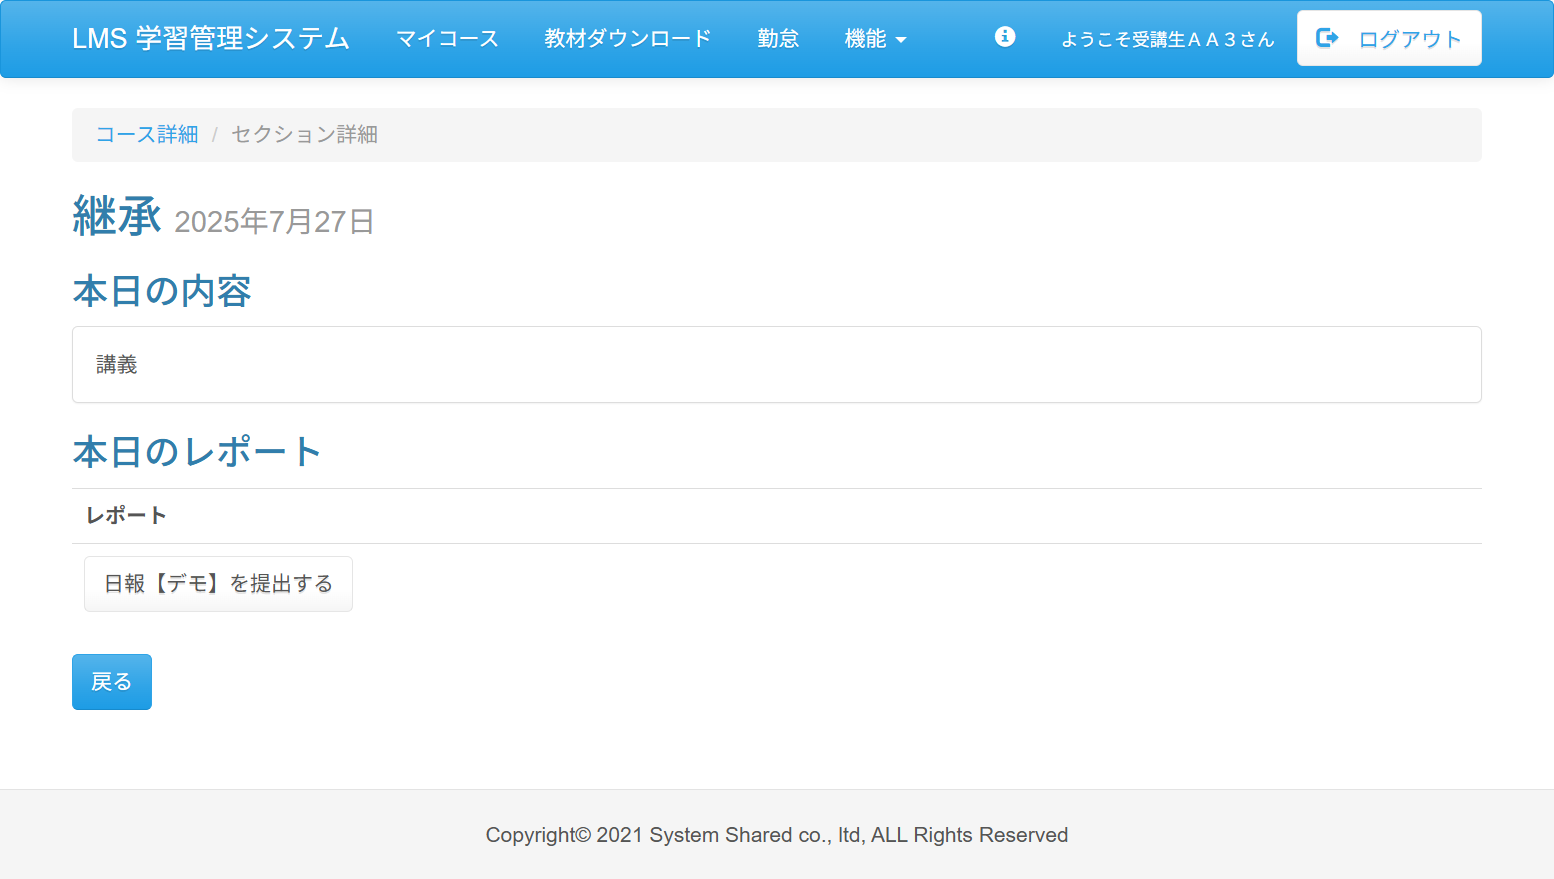
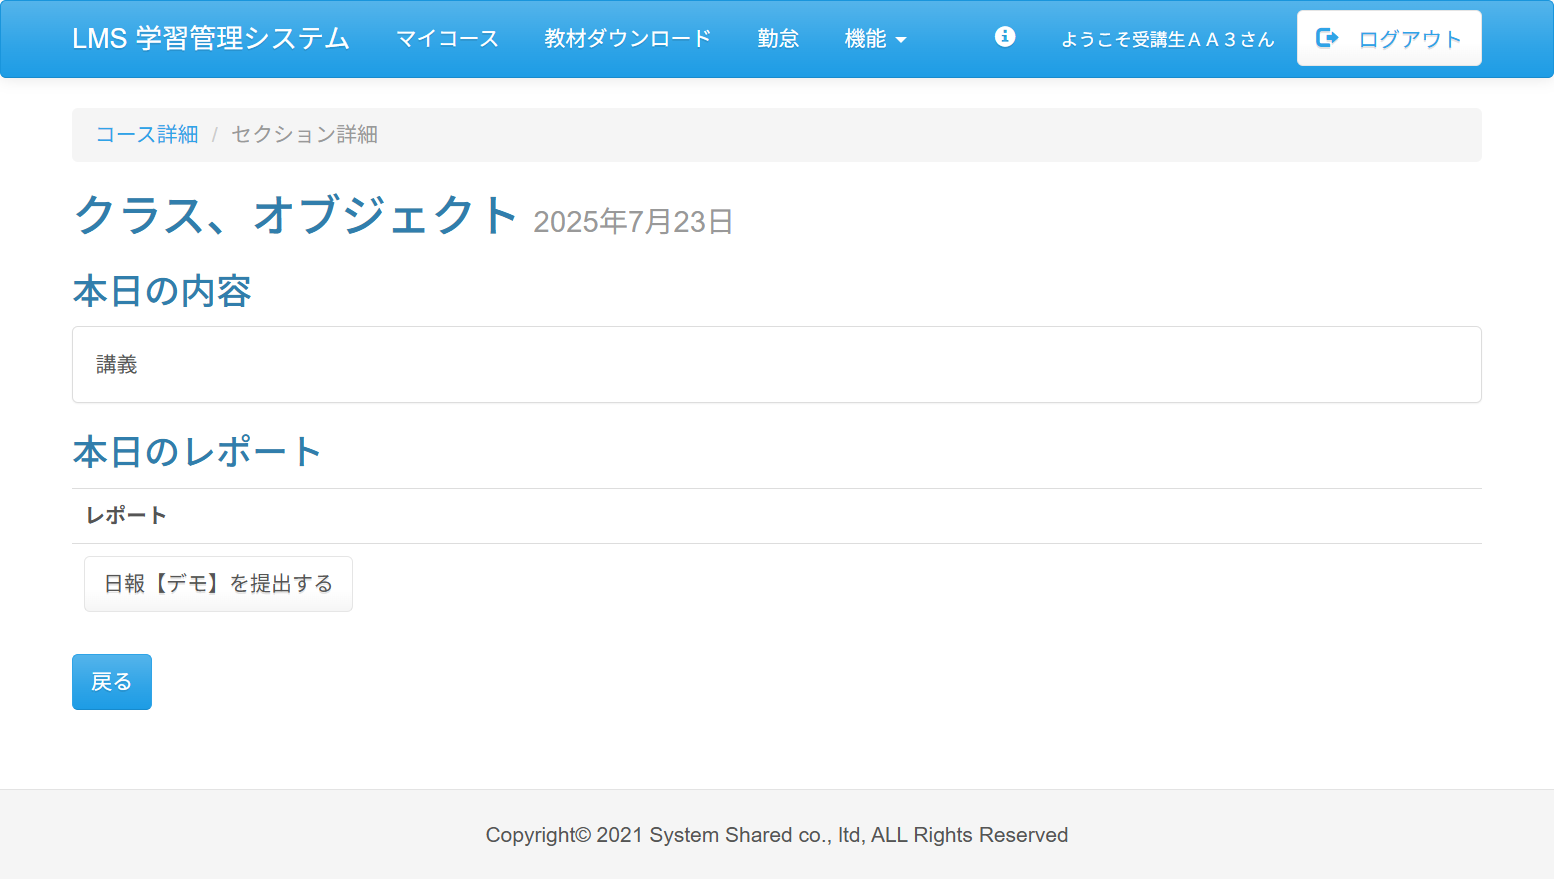
add: Case08.java 該当レポートの「詳細」ボタンを押下しレポート詳細画面で修正内容が反映される
WebElementを利用して
報告内容を修正し、レポート詳細画面で修正内容が
反映されているかどうか確認するテストを作成した。
期待値は以下の通り
テキスト：ロケータの種類
テキスト：3
テキスト：1
テキスト：難しかった。
テキスト：一週間お疲れ様です。
---------------------------------------------
fix:
Case07.java エラー内容の修正

classNameで値を取得していたところを、
xpathに置き換え、xpathで値を取得するようにした。
修正内容は以下の通り
WebDriverUtils.java 200行目
Case07.java 95行目

Changed region(s): [[0.0309, 0.215, 0.4633, 0.2765]]

diff --git a/test_code_creation_name/src/test/java/jp/co/sss/lms/ct/f03_report/Case08.java b/test_code_creation_name/src/test/java/jp/co/sss/lms/ct/f03_report/Case08.java
@@ -10,6 +10,8 @@ import org.junit.jupiter.api.Order;
 import org.junit.jupiter.api.Test;
 import org.junit.jupiter.api.TestMethodOrder;
 
+import jp.co.sss.lms.ct.util.WebDriverUtils;
+
 /**
  * 結合テスト レポート機能
  * ケース08
@@ -35,49 +37,90 @@ public class Case08 {
 	@Order(1)
 	@DisplayName("テスト01 トップページURLでアクセス")
 	void test01() {
-		// TODO ここに追加
+		goTo("http://localhost:8080/lms");
+		WebDriverUtils.resultTitle("ログイン | LMS");
+		getEvidence(new Object() {
+		});
 	}
 
 	@Test
 	@Order(2)
 	@DisplayName("テスト02 初回ログイン済みの受講生ユーザーでログイン")
-	void test02() {
-		// TODO ここに追加
+	void test02() throws InterruptedException {
+		WebDriverUtils.nameInput("loginId", "StudentAA03");
+		WebDriverUtils.nameInput("password", "StudentAA033");
+		WebDriverUtils.enterKey("btn");
+
+		Thread.sleep(1000);
+
+		WebDriverUtils.resultTitle("コース詳細 | LMS");
+		getEvidence(new Object() {
+		});
 	}
 
 	@Test
 	@Order(3)
 	@DisplayName("テスト03 提出済の研修日の「詳細」ボタンを押下しセクション詳細画面に遷移")
-	void test03() {
-		// TODO ここに追加
+	void test03() throws InterruptedException {
+		WebDriverUtils.enterXpath("//*[@id=\"main\"]/div/div[2]/div[2]/table/tbody/tr[2]/td[5]/form/input[3]");
+		Thread.sleep(1000);
+		WebDriverUtils.resultTitle("セクション詳細 | LMS");
+		getEvidence(new Object() {
+		});
 	}
 
 	@Test
 	@Order(4)
 	@DisplayName("テスト04 「確認する」ボタンを押下しレポート登録画面に遷移")
-	void test04() {
-		// TODO ここに追加
+	void test04() throws InterruptedException {
+		WebDriverUtils.enterKeyValue("//input[@value='提出済み週報【デモ】を確認する']");
+		Thread.sleep(1000);
+		WebDriverUtils.resultTitle("レポート登録 | LMS");
+		getEvidence(new Object() {
+		});
 	}
 
 	@Test
 	@Order(5)
 	@DisplayName("テスト05 報告内容を修正して「提出する」ボタンを押下しセクション詳細画面に遷移")
-	void test05() {
-		// TODO ここに追加
+	void test05() throws InterruptedException {
+		WebDriverUtils.nameInput("intFieldNameArray[0]", "ロケータの種類");
+		WebDriverUtils.inputIdPull("intFieldValue_0", "3");
+		WebDriverUtils.nameInput("contentArray[0]", "1");
+		WebDriverUtils.nameInput("contentArray[1]", "難しかった。");
+		WebDriverUtils.nameInput("contentArray[2]", "一週間お疲れ様です。");
+		WebDriverUtils.enterKey("btn-primary");
+
+		Thread.sleep(1000);
+		WebDriverUtils.resultTitle("セクション詳細 | LMS");
+		getEvidence(new Object() {
+		});
 	}
 
 	@Test
 	@Order(6)
 	@DisplayName("テスト06 上部メニューの「ようこそ○○さん」リンクからユーザー詳細画面に遷移")
-	void test06() {
-		// TODO ここに追加
+	void test06() throws InterruptedException {
+		WebDriverUtils.enterKeyValue("//*[@id=\"nav-content\"]/ul[2]/li[2]/a");
+		Thread.sleep(1000);
+		WebDriverUtils.resultTitle("ユーザー詳細");
+		getEvidence(new Object() {
+		});
 	}
 
 	@Test
 	@Order(7)
 	@DisplayName("テスト07 該当レポートの「詳細」ボタンを押下しレポート詳細画面で修正内容が反映される")
-	void test07() {
-		// TODO ここに追加
+	void test07() throws InterruptedException {
+		WebDriverUtils.enterKeyValue("//*[@id=\"main\"]/table[2]/tbody/tr[13]/td[5]/form[1]/input[1]");
+		Thread.sleep(1000);
+		WebDriverUtils.resultXpathText("//*[@id=\"main\"]/div[1]/table/tbody/tr[2]/td[1]/p", "ロケータの種類");
+		WebDriverUtils.resultXpathText("//*[@id=\"main\"]/div[1]/table/tbody/tr[2]/td[2]/p", "3");
+		WebDriverUtils.resultXpathText("//*[@id=\"main\"]/div[2]/table/tbody/tr[1]/td", "1");
+		WebDriverUtils.resultXpathText("//*[@id=\"main\"]/div[2]/table/tbody/tr[2]/td", "難しかった。");
+		WebDriverUtils.resultXpathText("//*[@id=\"main\"]/div[2]/table/tbody/tr[3]/td", "一週間お疲れ様です。");
+		getEvidence(new Object() {
+		});
 	}
 
 }

diff --git a/test_code_creation_name/src/test/java/jp/co/sss/lms/ct/util/WebDriverUtils.java b/test_code_creation_name/src/test/java/jp/co/sss/lms/ct/util/WebDriverUtils.java
@@ -16,6 +16,7 @@ import org.openqa.selenium.WebDriver;
 import org.openqa.selenium.WebElement;
 import org.openqa.selenium.chrome.ChromeDriver;
 import org.openqa.selenium.support.ui.ExpectedConditions;
+import org.openqa.selenium.support.ui.Select;
 import org.openqa.selenium.support.ui.WebDriverWait;
 
 import com.google.common.io.Files;
@@ -163,11 +164,11 @@ public class WebDriverUtils {
 	}
 
 	/**
-	 * HTMLのvalue属性を取得し、エンターキーを押す
-	 * @param className
+	 * HTMLのxpathを取得し、エンターキーを押す
+	 * @param xpath
 	 */
-	public static void enterKeyValue(String valueName) {
-		final WebElement enterKey = WebDriverUtils.webDriver.findElement(By.xpath(valueName));
+	public static void enterKeyValue(String xpath) {
+		final WebElement enterKey = WebDriverUtils.webDriver.findElement(By.xpath(xpath));
 		enterKey.sendKeys(Keys.ENTER);
 	}
 
@@ -191,11 +192,12 @@ public class WebDriverUtils {
 	}
 
 	/**
-	 * HTMLのタイトルを取得し、結果と合致してるか調べる
+	 * HTMLのvalue属性を取得し、結果と合致してるか調べる
+	 * @param xpath
 	 * @param result
 	 */
-	public static void resultValue(String className, String result) {
-		String value = WebDriverUtils.webDriver.findElement(By.className(className)).getAttribute("value");
+	public static void resultValue(String xpath, String result) {
+		String value = WebDriverUtils.webDriver.findElement(By.xpath(xpath)).getAttribute("value");
 		assertEquals(result, value);
 	}
 
@@ -223,6 +225,16 @@ public class WebDriverUtils {
 	}
 
 	/**
+	 * HTMLのid属性を取得し、プルダウンの値を選択する
+	 * @param id
+	 * @param inputValue
+	 */
+	public static void inputIdPull(String id, String inputValue) {
+		Select dropdown = new Select(WebDriverUtils.webDriver.findElement(By.id(id)));
+		dropdown.selectByVisibleText(inputValue);
+	}
+
+	/**
 	 * xpathの値を取得し、エンターを押す
 	 * @param xpath
 	 */
@@ -230,6 +242,15 @@ public class WebDriverUtils {
 		WebDriverUtils.webDriver
 				.findElement(By.xpath(xpath))
 				.sendKeys(Keys.ENTER);
+	}
+
+	/**
+	 * xpathの値を取得し、テキストの値と結果が合致しているかを返す
+	 * @param xpath
+	 */
+	public static void resultXpathText(String xpath, String result) {
+		final WebElement enterKey = WebDriverUtils.webDriver.findElement(By.xpath(xpath));
+		assertEquals(result, enterKey.getText());
 	}
 
 }

diff --git a/test_code_creation_name/src/test/java/jp/co/sss/lms/ct/f03_report/Case07.java b/test_code_creation_name/src/test/java/jp/co/sss/lms/ct/f03_report/Case07.java
@@ -9,8 +9,6 @@ import org.junit.jupiter.api.MethodOrderer.OrderAnnotation;
 import org.junit.jupiter.api.Order;
 import org.junit.jupiter.api.Test;
 import org.junit.jupiter.api.TestMethodOrder;
-import org.openqa.selenium.By;
-import org.openqa.selenium.Keys;
 
 import jp.co.sss.lms.ct.util.WebDriverUtils;
 
@@ -67,10 +65,7 @@ public class Case07 {
 	@Order(3)
 	@DisplayName("テスト03 未提出の研修日の「詳細」ボタンを押下しセクション詳細画面に遷移")
 	void test03() throws InterruptedException {
-
-		WebDriverUtils.webDriver
-				.findElement(By.xpath("//*[@id=\"main\"]/div/div[5]/div[2]/table/tbody/tr[4]/td[5]/form/input[3]"))
-				.sendKeys(Keys.ENTER);
+		WebDriverUtils.enterXpath("//*[@id=\"main\"]/div/div[5]/div[2]/table/tbody/tr[2]/td[5]/form/input[3]");
 
 		Thread.sleep(1000);
 		WebDriverUtils.resultTitle("セクション詳細 | LMS");
@@ -97,8 +92,7 @@ public class Case07 {
 		WebDriverUtils.enterKey("btn-primary");
 		Thread.sleep(1000);
 
-		// 下記のプログラムでエラーが発生
-		//WebDriverUtils.resultValue("btn-default", "提出済み日報【デモ】を確認する");
+		WebDriverUtils.resultValue("//*[@id=\"sectionDetail\"]/table/tbody/tr[2]/td/form/input[6]", "提出済み日報【デモ】を確認する");
 		getEvidence(new Object() {
 		});
 	}
